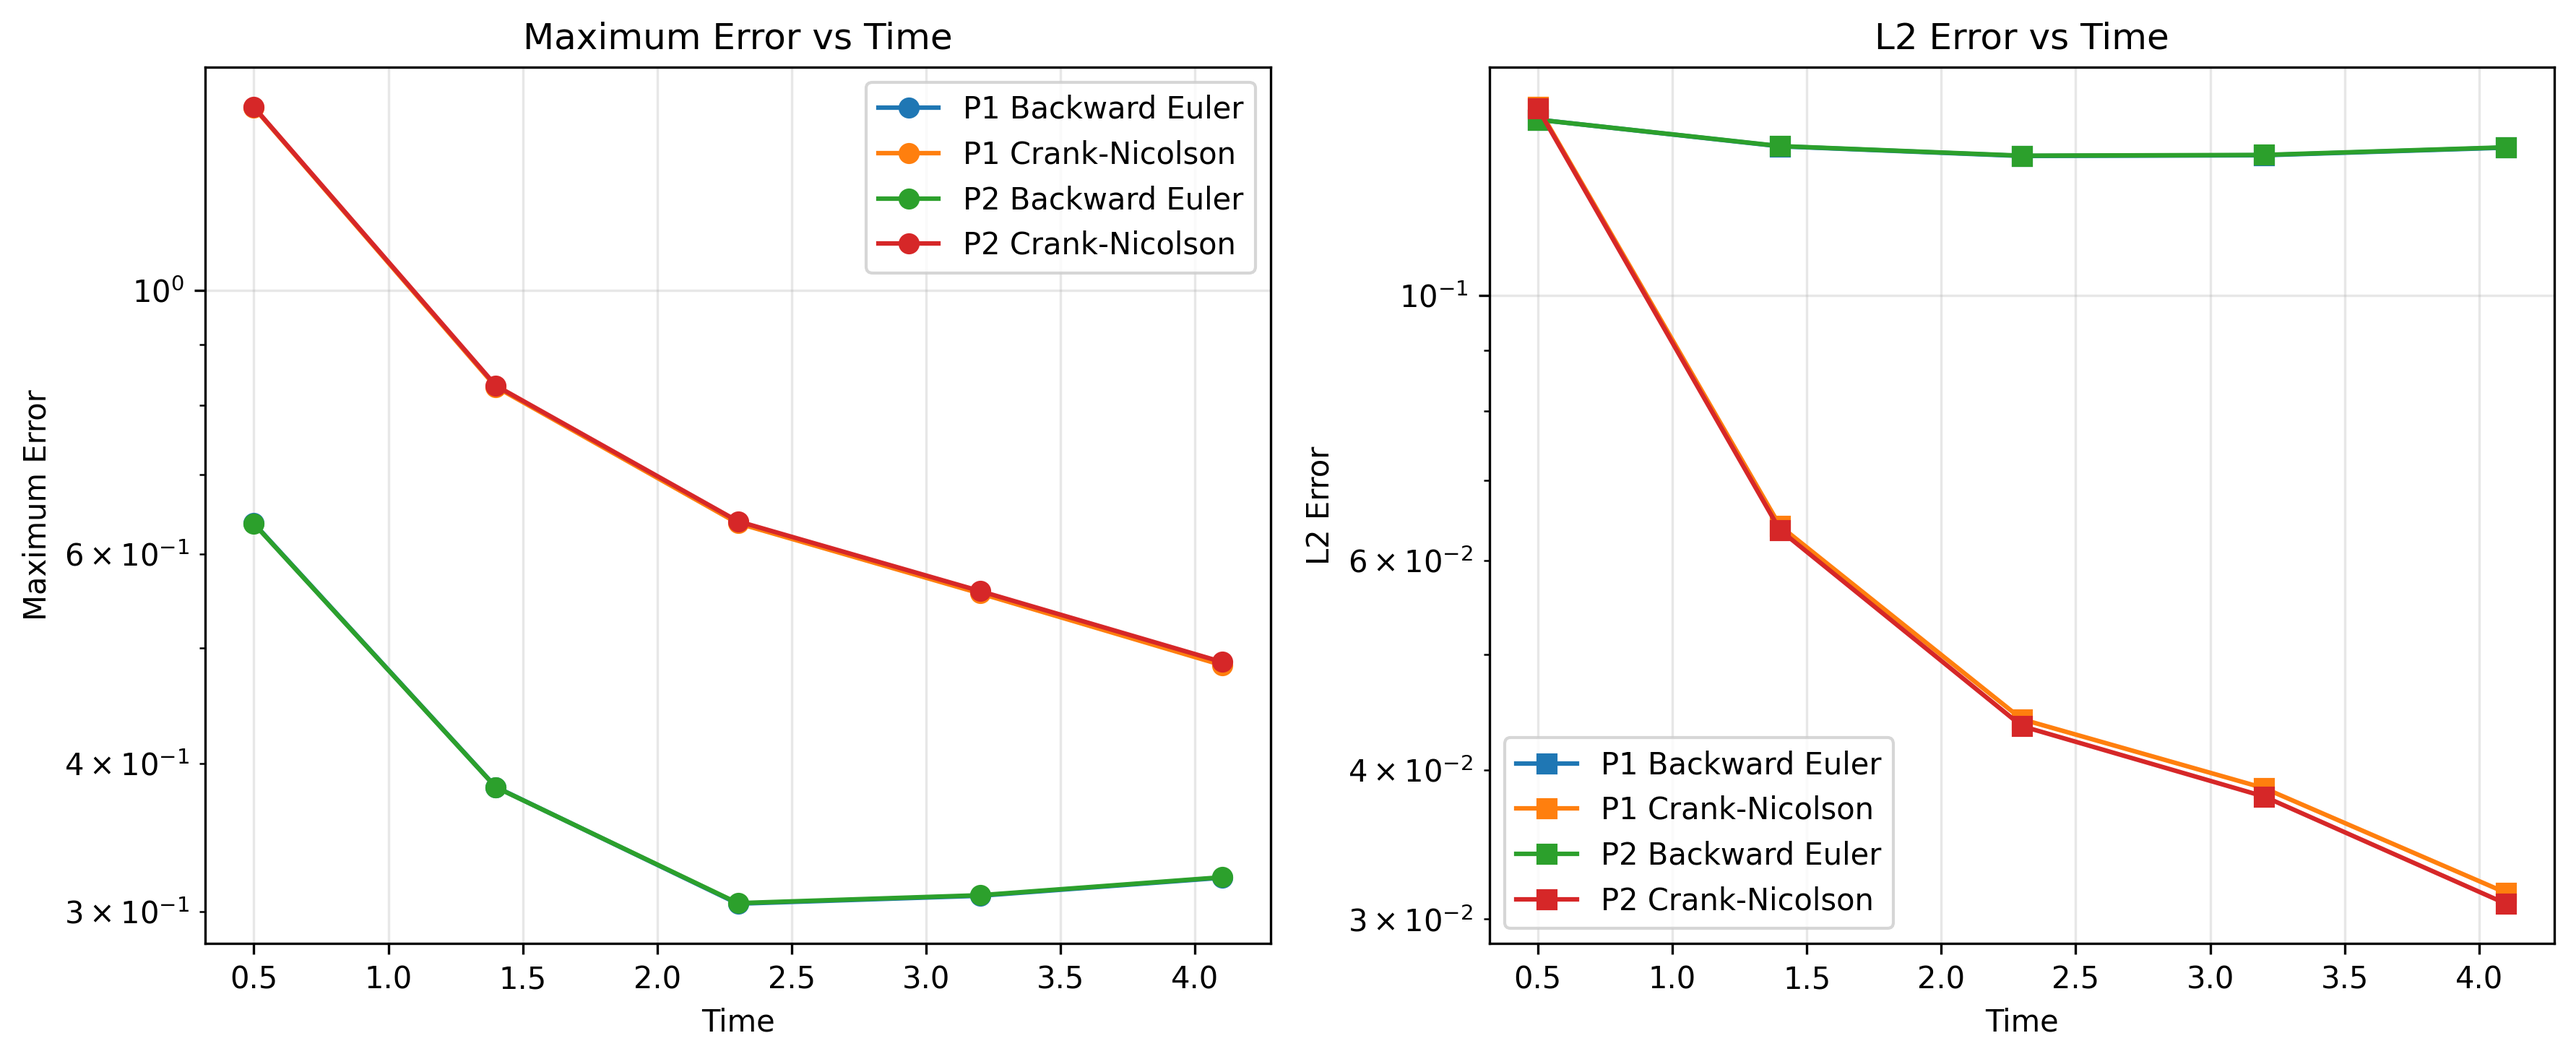
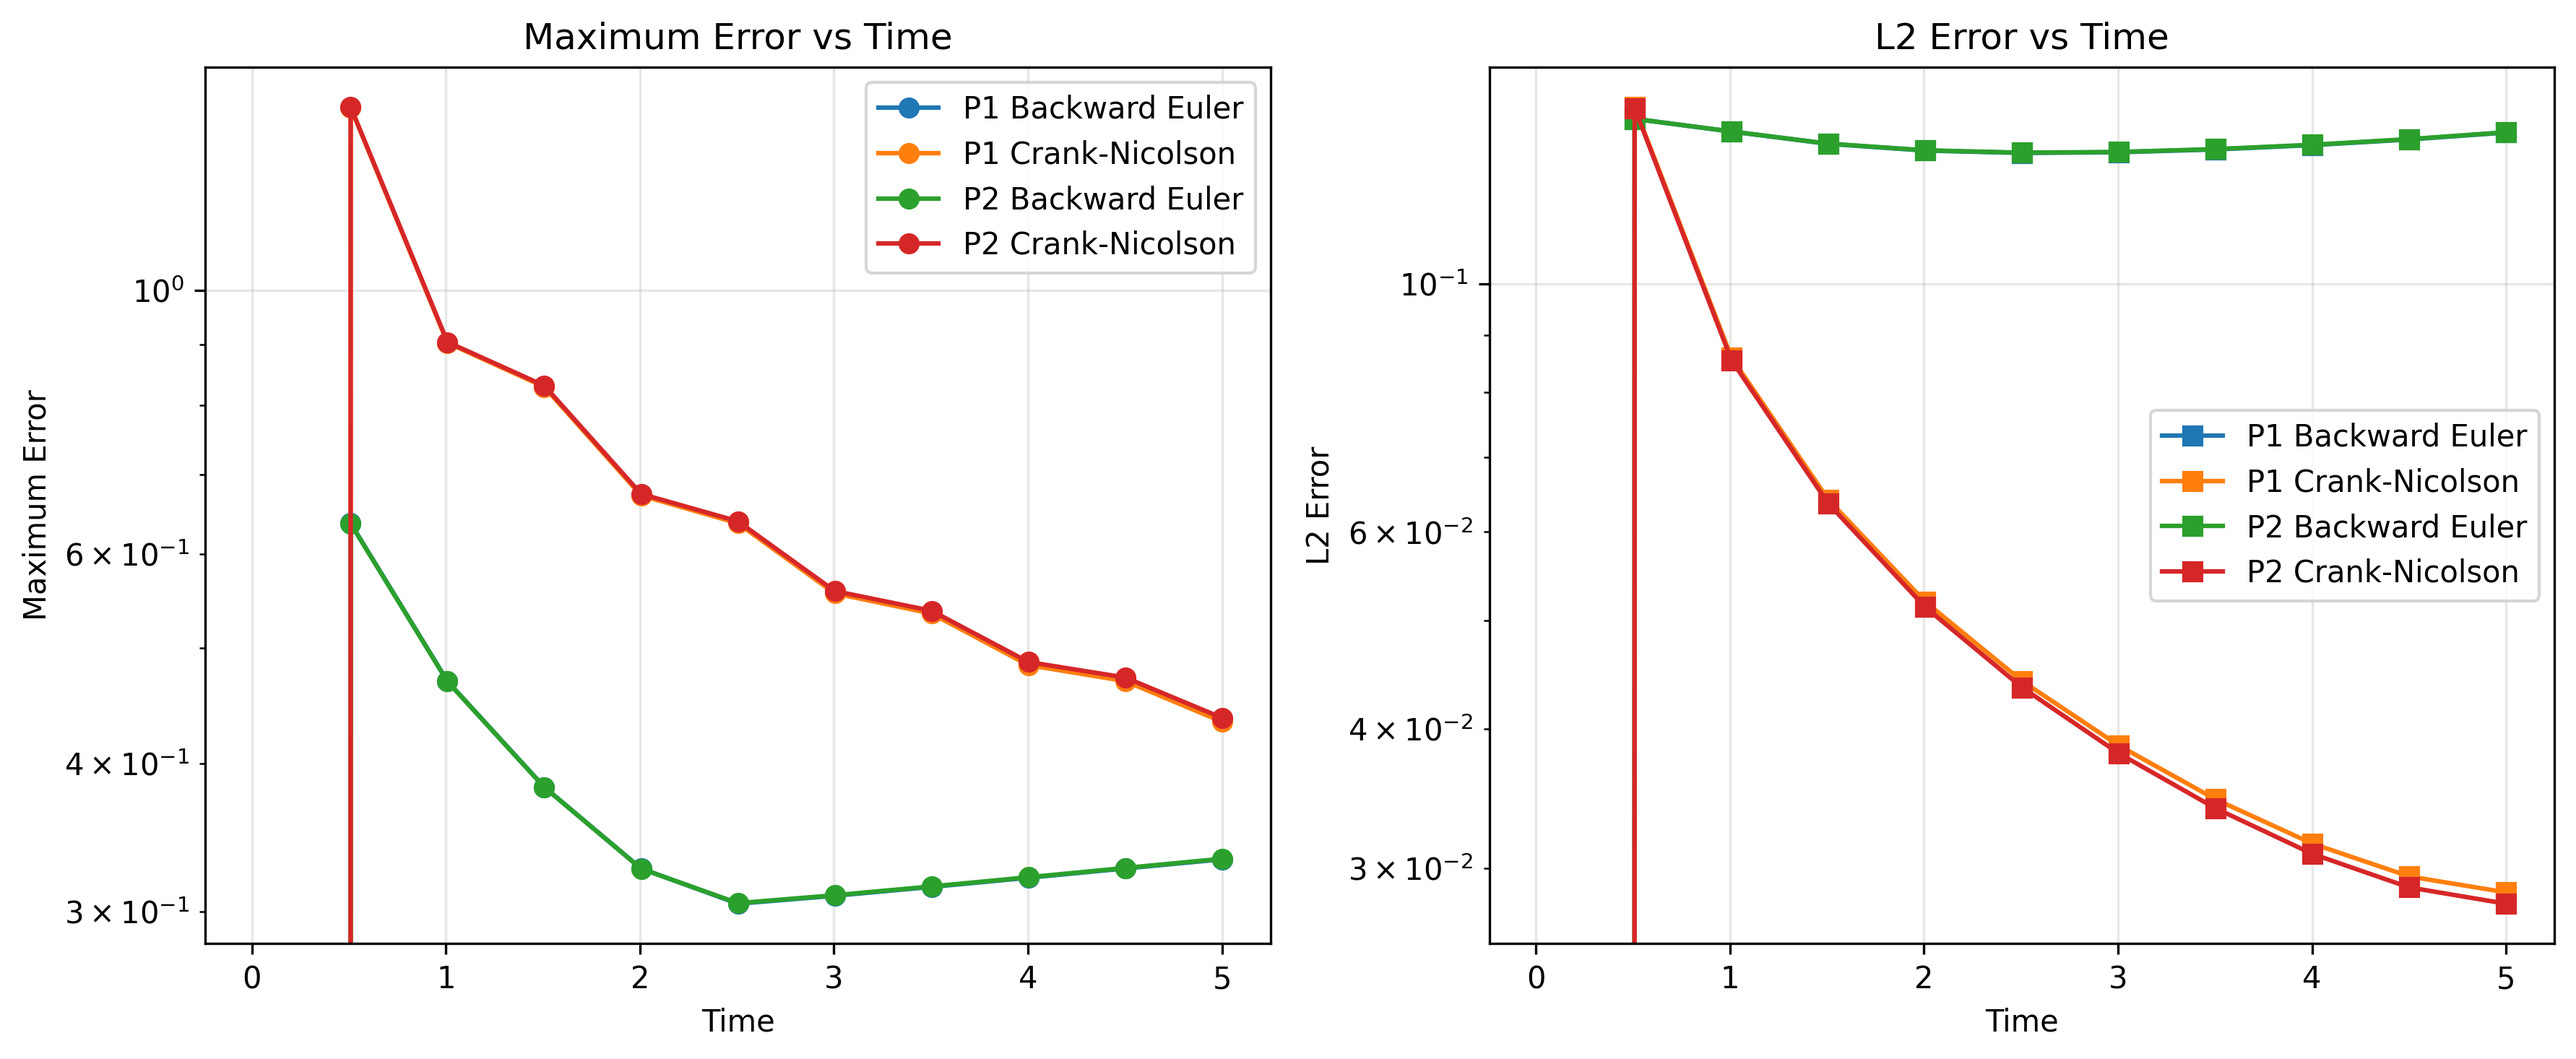
Updated convergence for true analytical

diff --git a/code/main.py b/code/main.py
@@ -10,9 +10,9 @@ from fem_solver import FEMSolver
 from black_scholes_pde import *
 
 # Flags to control which parts of the code to run
-COMPUTE_EXAMPLE_1 = True
-COMPUTE_EXAMPLE_2 = True
-COMPUTE_ANALYTICAL = False
+COMPUTE_EXAMPLE_1 = False
+COMPUTE_EXAMPLE_2 = False
+COMPUTE_ANALYTICAL = True
 # The convergence study is computationally expensive, so it can be disabled
 COMPUTE_CONVERGENCE_STUDY = True
 
@@ -370,9 +370,9 @@ if __name__ == "__main__":
             plot_convergence_errors(h_errors_dict, filename=f"./code/images/convergence_study_{pde.__class__.__name__}.png")
         
 
-    #####################################
-    ### Question 3, Part 1, Example 2 ###
-    #####################################
+    #################################
+    ### Question 3, Part 1, Extra ###
+    #################################
     if COMPUTE_EXAMPLE_2:
         # Parameters for the constructed PDE
         S_min = 3.0
@@ -444,19 +444,19 @@ if __name__ == "__main__":
         
         # Run convergence study to see the error vs. h curve
         if COMPUTE_CONVERGENCE_STUDY:
-            element_counts = [200 * 2**i for i in range(1, 5)]
+            element_counts = [200 * 2**i for i in range(0, 4)]
             h_errors_dict = {}
             # P1 CN
-            h1, e1 = convergence_study(pde, element_counts, schema='CN', element_type='P1', dt_h_power=2, dt_h_factor=1.0, numb_quad_points=20)
+            h1, e1 = convergence_study(pde, element_counts, schema='CN', element_type='P1', dt_h_power=1, dt_h_factor=1.0, numb_quad_points=5)
             h_errors_dict['P1 CN'] = (h1, e1)
             # P1 BE
-            h2, e2 = convergence_study(pde, element_counts, schema='BE', element_type='P1', dt_h_power=2, dt_h_factor=1.0, numb_quad_points=20)
+            h2, e2 = convergence_study(pde, element_counts, schema='BE', element_type='P1', dt_h_power=2, dt_h_factor=1.0, numb_quad_points=5)
             h_errors_dict['P1 BE'] = (h2, e2)
             # P2 CN
-            h3, e3 = convergence_study(pde, element_counts, schema='CN', element_type='P2', dt_h_power=4, dt_h_factor=1.0, numb_quad_points=20)
+            h3, e3 = convergence_study(pde, element_counts, schema='CN', element_type='P2', dt_h_power=2, dt_h_factor=1.0, numb_quad_points=5)
             h_errors_dict['P2 CN'] = (h3, e3)
             # P2 BE
-            h4, e4 = convergence_study(pde, element_counts, schema='BE', element_type='P2', dt_h_power=4, dt_h_factor=1.0, numb_quad_points=20)
+            h4, e4 = convergence_study(pde, element_counts, schema='BE', element_type='P2', dt_h_power=4, dt_h_factor=1.0, numb_quad_points=5)
             h_errors_dict['P2 BE'] = (h4, e4)
             plot_convergence_errors(h_errors_dict, filename=f"./code/images/convergence_study_{pde.__class__.__name__}.png")
         
